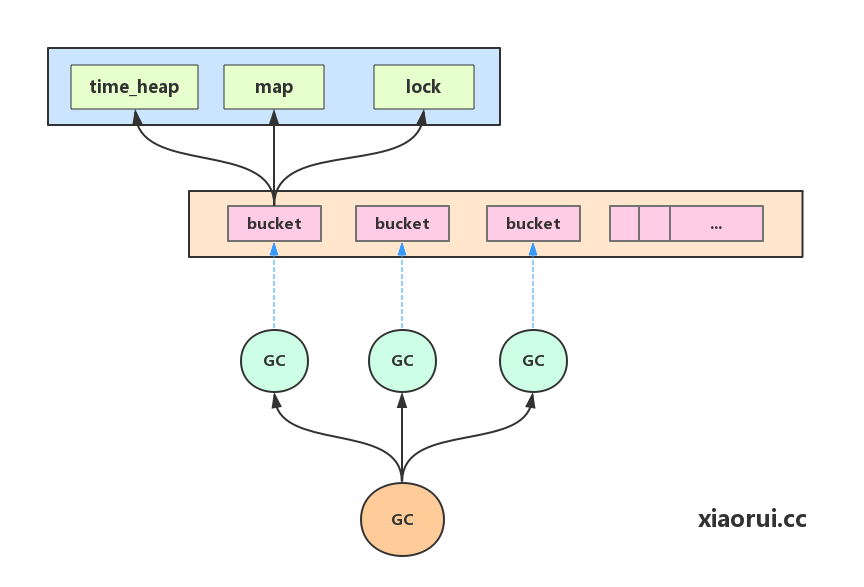
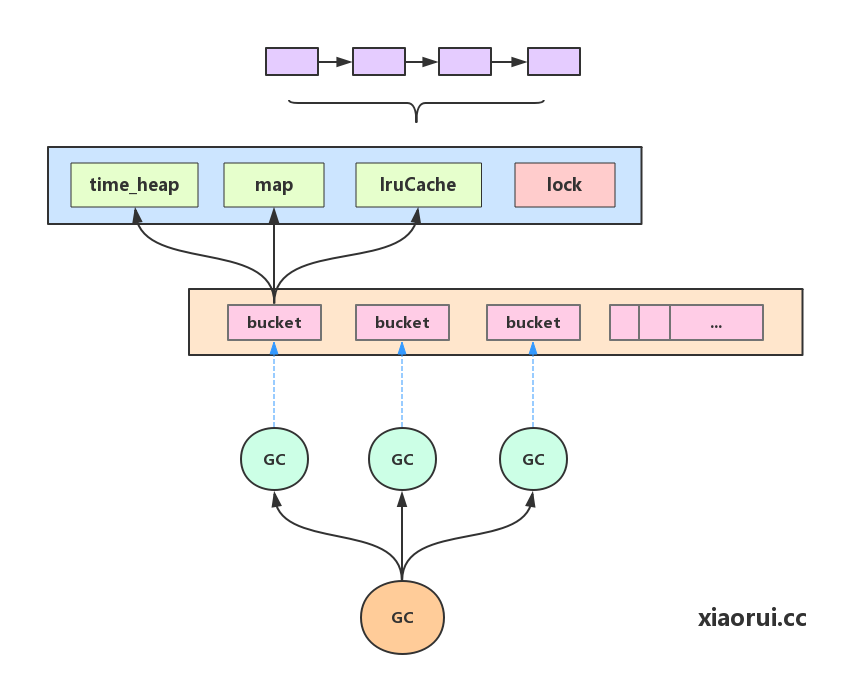
update doc

diff --git a/README.md b/README.md
@@ -1,3 +1,17 @@
 # emap
 
+advance golang map, it support expire ttl and lru action.
+
 ![](map.jpg)
+
+## Features
+
+* support expire kv and lru.
+* goroutine safe
+* reduce futex call
+* support getInt, getString, Incr cmd
+
+## Usage
+
+...
+
